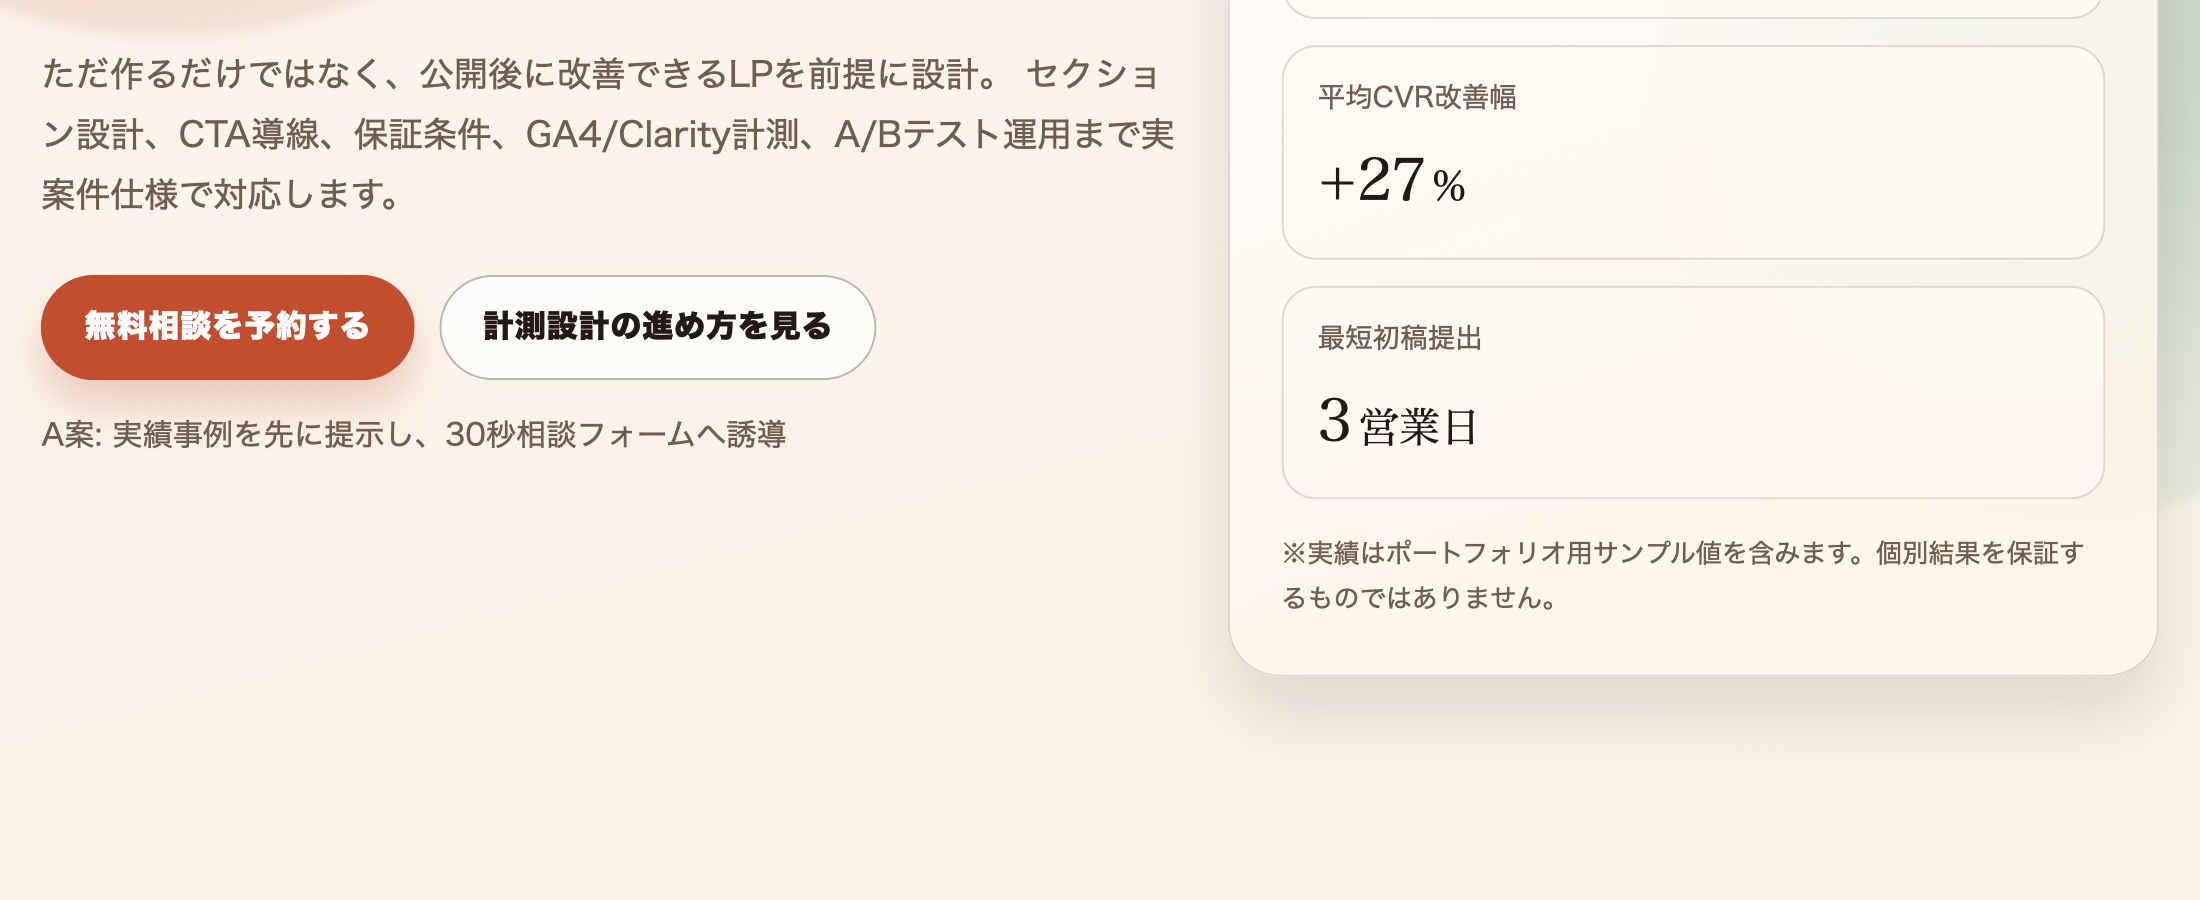
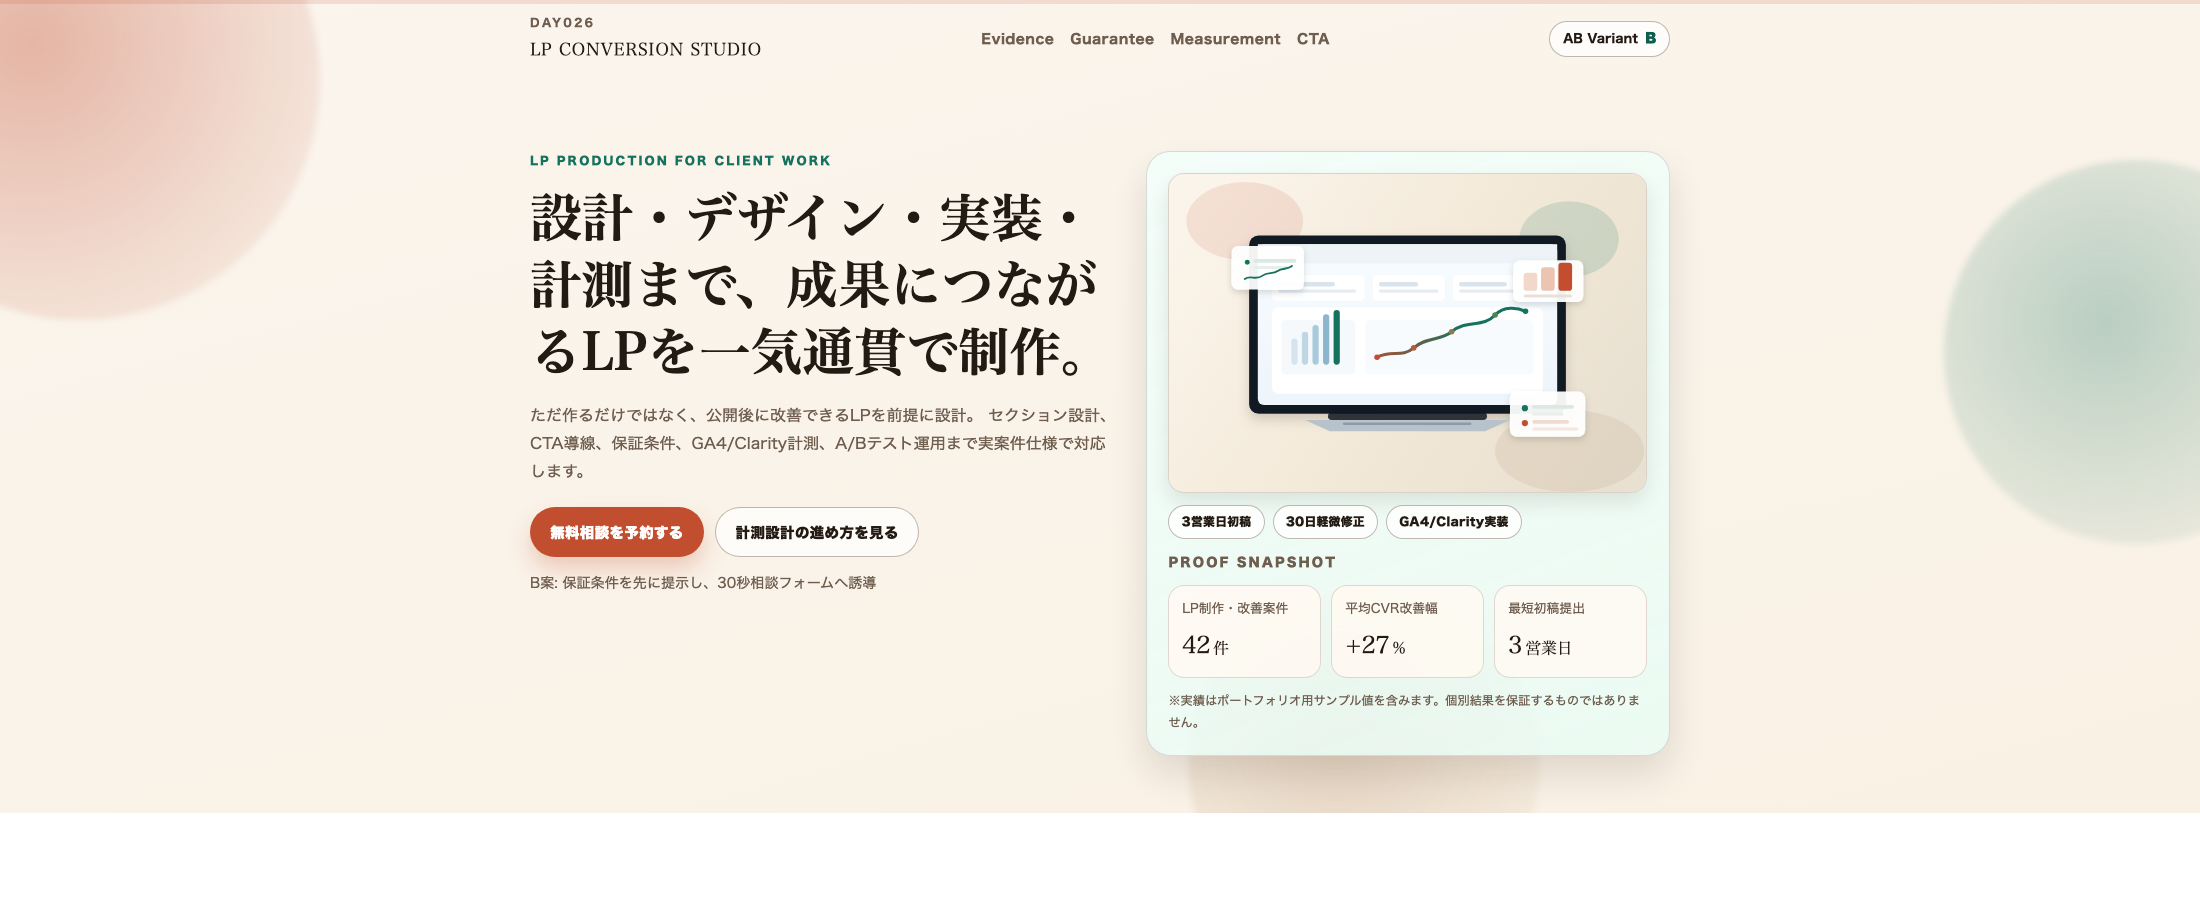
feat(day026): FV調整と締め作業を反映
閲覧者向けJSONエクスポート導線を削除

FVにワークフロービジュアルを追加し左右バランスを調整

PC/SP/FVスクリーンショットを再生成しREADMEを更新

diff --git a/day026/styles.css b/day026/styles.css
@@ -213,9 +213,9 @@ body {
 
 .hero-grid {
   display: grid;
-  grid-template-columns: 1.1fr 0.9fr;
-  gap: 1.4rem;
-  align-items: stretch;
+  grid-template-columns: minmax(0, 1.06fr) minmax(0, 0.94fr);
+  gap: 1.55rem;
+  align-items: start;
 }
 
 .eyebrow {
@@ -330,7 +330,7 @@ h3 {
   border: 1px solid var(--line);
   background: linear-gradient(160deg, rgba(255, 255, 255, 0.9), rgba(255, 244, 230, 0.82));
   border-radius: var(--radius-lg);
-  padding: 1.5rem;
+  padding: 1.35rem;
   box-shadow: var(--shadow);
 }
 
@@ -338,8 +338,45 @@ body[data-variant="B"] .hero-panel {
   background: linear-gradient(160deg, rgba(243, 255, 251, 0.88), rgba(232, 252, 245, 0.82));
 }
 
+.hero-visual {
+  margin: 0 0 0.75rem;
+  border: 1px solid var(--line);
+  border-radius: var(--radius-md);
+  overflow: hidden;
+  box-shadow: 0 10px 20px rgba(36, 18, 5, 0.1);
+  background: #f8f2e8;
+}
+
+.hero-visual img {
+  display: block;
+  width: 100%;
+  height: auto;
+  aspect-ratio: 3 / 2;
+  object-fit: cover;
+}
+
+.hero-visual-badges {
+  list-style: none;
+  margin: 0 0 0.8rem;
+  padding: 0;
+  display: flex;
+  gap: 0.5rem;
+  flex-wrap: wrap;
+}
+
+.hero-visual-badges li {
+  border: 1px solid var(--line-strong);
+  border-radius: 999px;
+  background: rgba(255, 255, 255, 0.84);
+  color: var(--ink);
+  padding: 0.34rem 0.76rem;
+  font-size: 0.74rem;
+  font-weight: 800;
+  letter-spacing: 0.02em;
+}
+
 .panel-title {
-  margin: 0 0 0.9rem;
+  margin: 0 0 0.7rem;
   font-size: 0.8rem;
   color: var(--ink-soft);
   text-transform: uppercase;
@@ -349,14 +386,15 @@ body[data-variant="B"] .hero-panel {
 
 .panel-metrics {
   display: grid;
-  gap: 0.75rem;
+  grid-template-columns: repeat(auto-fit, minmax(128px, 1fr));
+  gap: 0.62rem;
 }
 
 .panel-metrics article {
   border: 1px solid var(--line);
   border-radius: var(--radius-md);
   background: var(--paper);
-  padding: 0.8rem 1rem;
+  padding: 0.72rem 0.8rem;
 }
 
 .metric-label {
@@ -368,16 +406,16 @@ body[data-variant="B"] .hero-panel {
 .metric-value {
   margin: 0.2rem 0 0;
   font-family: var(--font-display);
-  font-size: 1.7rem;
+  font-size: clamp(1.24rem, 2.1vw, 1.5rem);
 }
 
 .metric-value span {
-  font-size: 0.7em;
+  font-size: 0.66em;
   margin-left: 0.18rem;
 }
 
 .panel-note {
-  margin: 0.95rem 0 0;
+  margin: 0.78rem 0 0;
   font-size: 0.76rem;
   color: var(--ink-soft);
 }

diff --git a/day026/index.html b/day026/index.html
@@ -84,6 +84,21 @@
           </div>
 
           <aside class="hero-panel" data-reveal>
+            <figure class="hero-visual">
+              <img
+                src="./images/fv-hero-visual.svg"
+                width="1536"
+                height="1024"
+                loading="eager"
+                fetchpriority="high"
+                alt="LPの設計から計測改善までの流れを示したワークフロービジュアル"
+              >
+            </figure>
+            <ul class="hero-visual-badges" aria-label="制作条件">
+              <li>3営業日初稿</li>
+              <li>30日軽微修正</li>
+              <li>GA4/Clarity実装</li>
+            </ul>
             <p class="panel-title">Proof Snapshot</p>
             <div class="panel-metrics">
               <article>
@@ -272,7 +287,6 @@
               <p class="metric-last">Last Event: <span id="metric-last-event">-</span></p>
 
               <div class="telemetry-actions">
-                <button id="export-telemetry" type="button">JSONエクスポート</button>
                 <button id="reset-telemetry" type="button">ログをリセット</button>
               </div>
             </article>

diff --git a/day026/script.js b/day026/script.js
@@ -624,35 +624,6 @@ const updateDashboard = () => {
 telemetry.subscribe(updateDashboard);
 updateDashboard();
 
-const exportButton = document.querySelector("#export-telemetry");
-if (exportButton) {
-  exportButton.addEventListener("click", () => {
-    telemetry.mark("telemetry_export");
-
-    const payload = {
-      exportedAt: new Date().toISOString(),
-      variant,
-      analytics: analyticsBridge.status(),
-      summary: telemetry.summary(),
-      events: telemetry.snapshot()
-    };
-
-    const blob = new Blob([JSON.stringify(payload, null, 2)], {
-      type: "application/json"
-    });
-    const objectUrl = URL.createObjectURL(blob);
-
-    const tempLink = document.createElement("a");
-    tempLink.href = objectUrl;
-    tempLink.download = `day026-telemetry-${Date.now()}.json`;
-    document.body.append(tempLink);
-    tempLink.click();
-    tempLink.remove();
-
-    URL.revokeObjectURL(objectUrl);
-  });
-}
-
 const resetButton = document.querySelector("#reset-telemetry");
 if (resetButton) {
   resetButton.addEventListener("click", () => {

diff --git a/day026/README.md b/day026/README.md
@@ -1,48 +1,50 @@
 # Day026 - LP改善・CV導線設計（社会的証明 × リスク逆転 × 計測設計）
 
 ## ラベル（検索用）
-**Labels:** `lp` `proof` `risk-reversal` `measurement` `ab-test` `ga4` `clarity` `portfolio` `day026`
+**Labels:** `lp` `portfolio` `cv` `proof` `risk-reversal` `measurement` `ab-test` `ga4` `clarity` `screenshot` `day026`
 
-lp:audience=LP改善を検討する事業者/マーケ担当
-lp:goal=無料相談予約（フォーム送信）
-lp:industry=LP制作/改善支援
-lp:objective=社会的証明・リスク逆転・計測設計を同時実装する
-lp:offer=LP設計/デザイン/実装 + 保証条件設計 + GA4/Clarity計測実装
-lp:template=original-day026
-lp:status=prototype-ready
+lp:audience=LP改善を検討する事業者/マーケ担当  
+lp:goal=無料相談予約（フォーム送信）  
+lp:industry=LP制作/改善支援  
+lp:objective=社会的証明・リスク逆転・計測設計を同時実装し、改善運用まで接続する  
+lp:offer=LP設計/デザイン/実装 + 保証条件設計 + GA4/Clarity計測実装  
+lp:template=original-day026  
+lp:status=prototype-ready  
 lp:env=static-html-css-js
 
 ---
 
-## 今日のテーマ
-Day026は以下3要素を主軸に制作。
-
-1. 社会的証明（Evidence）
-- 業種別の事例カード（SaaS/EC/サービス）
-- 数値変化を明示（例: CVR 1.9%→3.0%）
-- 口コミブロックを追加し、定性的証拠も提示
-
-2. リスク逆転（Risk Reversal）
-- 納品保証、方向性修正保証、公開後フォロー保証を明文化
-- `details` UIで保証条件を開封・確認できる構成
-- CTA前で心理的リスクを先回り処理
-
-3. 計測設計（Measurement Design）
-- KPIツリーをLP本体に可視化
-- イベント設計マップをテーブルで明示
-- `window.day026Analytics` でローカル計測サマリ確認
-- GA4/Clarityへイベント自動送信
-- 画面内ダッシュボード表示 + JSONエクスポート + ログリセット
+## 今日の成果
+- Day026の目的：
+  - 社会的証明・リスク逆転・計測設計を同時に成立させるLPを制作し、公開後の改善まで見据える
+- 実施内容：
+  - Evidence / Guarantee / Measurement の3軸でセクション設計・文言・導線を実装
+  - A/Bバリアント（`?ab=A` / `?ab=B` + localStorage保存）を実装
+  - ページ内Telemetryダッシュボードと `window.day026Analytics` を実装
+  - `JSONエクスポート` ボタンとダウンロード処理を削除し、閲覧者向け不要ダウンロードを防止
+  - FV右カラムにワークフロー画像（`images/fv-hero-visual.svg`）と条件バッジを追加
+  - FV左右バランスを調整（グリッド比率・右カラム密度・指標カードレイアウト）
+  - `?capture=1` でPC/SPスクリーンショット4枚を再生成
+- 検証結果：
+  - `node --check /Users/yuuki/Works/lp-100/day026/script.js` を通過
+  - `telemetry_export` / `export-telemetry` の参照がコード上に残っていないことを確認
+  - `day026PC/SP/FV` の4枚スクリーンショットを保存完了
 
 ---
 
-## 実装ファイル
+## 主要成果物
 - LP本体
   - `/Users/yuuki/Works/lp-100/day026/index.html`
   - `/Users/yuuki/Works/lp-100/day026/styles.css`
   - `/Users/yuuki/Works/lp-100/day026/script.js`
-- ドキュメント
-  - `/Users/yuuki/Works/lp-100/day026/README.md`
+- FVビジュアル
+  - `/Users/yuuki/Works/lp-100/day026/images/fv-hero-visual.svg`
+- スクリーンショット（captureモードで再生成）
+  - `/Users/yuuki/Works/lp-100/day026/day026PC.png`
+  - `/Users/yuuki/Works/lp-100/day026/day026PCFV.png`
+  - `/Users/yuuki/Works/lp-100/day026/day026SP.png`
+  - `/Users/yuuki/Works/lp-100/day026/day026SPFV.png`
+  - `/Users/yuuki/Works/lp-100/day026/day026FV.png`（横長FV）
 
 ---
 
@@ -51,8 +53,8 @@ Day026は以下3要素を主軸に制作。
   - `?ab=A`
   - `?ab=B`
 - 指定なしの場合
-  - localStorage (`day026-ab-variant`) を優先
-  - 未保存なら A/B をランダム割り当て
+  - localStorage（`day026-ab-variant`）を優先
+  - 未保存時は A/B をランダム割り当て
 - 差分
   - Heroマイクロコピーを切替
   - Bでは事例カードの並び順を変更
@@ -62,13 +64,13 @@ Day026は以下3要素を主軸に制作。
 ## GA4 / Clarity 設定方法
 `/Users/yuuki/Works/lp-100/day026/index.html` の `body` にIDを設定します。
 
-- `data-ga4-id=\"G-XXXXXXXXXX\"`
-- `data-clarity-id=\"xxxxxxxx\"`
+- `data-ga4-id="G-XXXXXXXXXX"`
+- `data-clarity-id="xxxxxxxx"`
 
-例:
-`<body id=\"top\" data-ga4-id=\"G-ABCD1234EF\" data-clarity-id=\"abcd1234\">`
+例:  
+`<body id="top" data-ga4-id="G-ABCD1234EF" data-clarity-id="abcd1234">`
 
-ID未設定時は、ローカル計測のみ動作します。
+ID未設定時はローカル計測のみ動作します。
 
 ---
 
@@ -80,18 +82,36 @@ ID未設定時は、ローカル計測のみ動作します。
 - `proof_filter_change`
 - `risk_detail_open`
 - `cta_click`
+- `chip_select`
 - `form_start`
 - `form_submit_start`
 - `form_submit_success`
 - `form_submit_error`
 - `faq_open`
 - `analytics_dispatch`
-- `telemetry_export`
 - `telemetry_reset`
 
 ---
 
-## 注意
-- 本LPは検証用デモ（架空案件）です。
-- 実在の企業/実績値ではありません。
+## 注意点
+- 本LPはポートフォリオ用途のデモです（架空案件）。
+- 実在の企業・商品・人物とは無関係です。
 - 効果を保証するものではありません。
+- スクショ撮影時は `index.html?capture=1` を使用してください。
+- Telemetryはクライアント内メモリ記録で、永続保存やサーバー送信は未実装です。
+- 閲覧者向けのJSONエクスポート機能は無効化済みです。
+
+---
+
+## 次回やること（Day027）
+1. Telemetry指標を使った改善仮説（CTA文言・順序）を2〜3案作成
+2. FVビジュアルを必要に応じて実画像（WebP）へ差し替え
+3. MeasurementセクションのKPI閾値と改善ルールを文書化
+4. A/Bバリアント別の追加スクリーンショットを取得
+
+---
+
+## 公開・法務メモ（最低限）
+- 本LPは **架空案件（デモ）**
+- 実在の企業・商品・人物とは無関係
+- 効果には個人差があり、特定結果を保証しない
